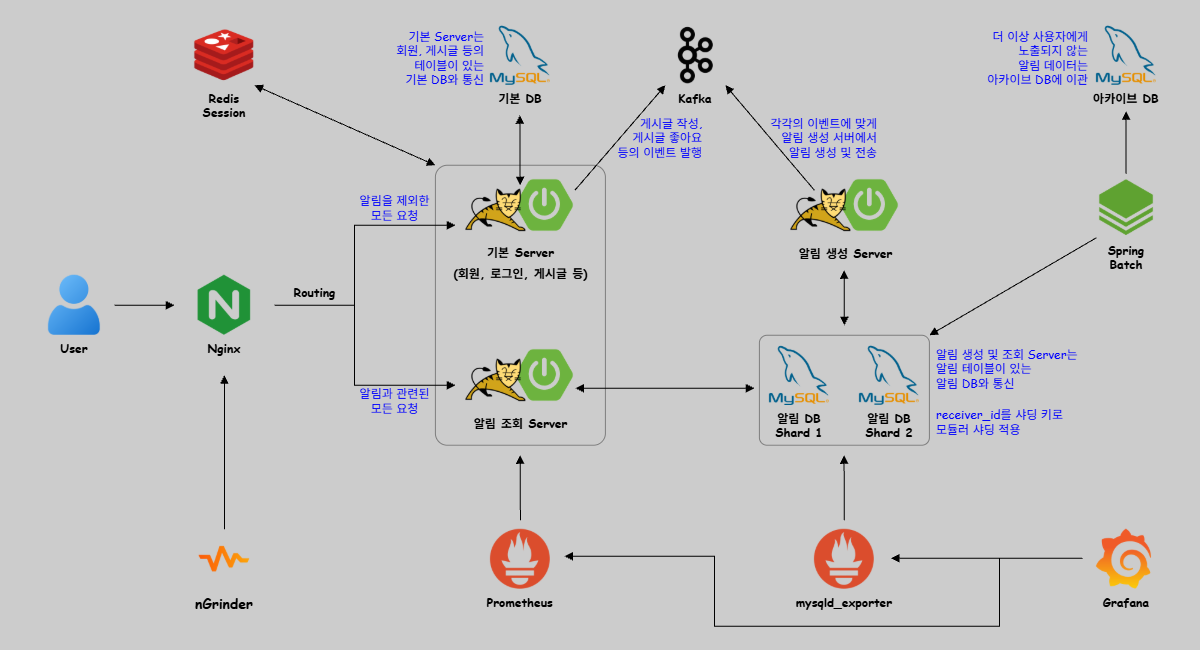
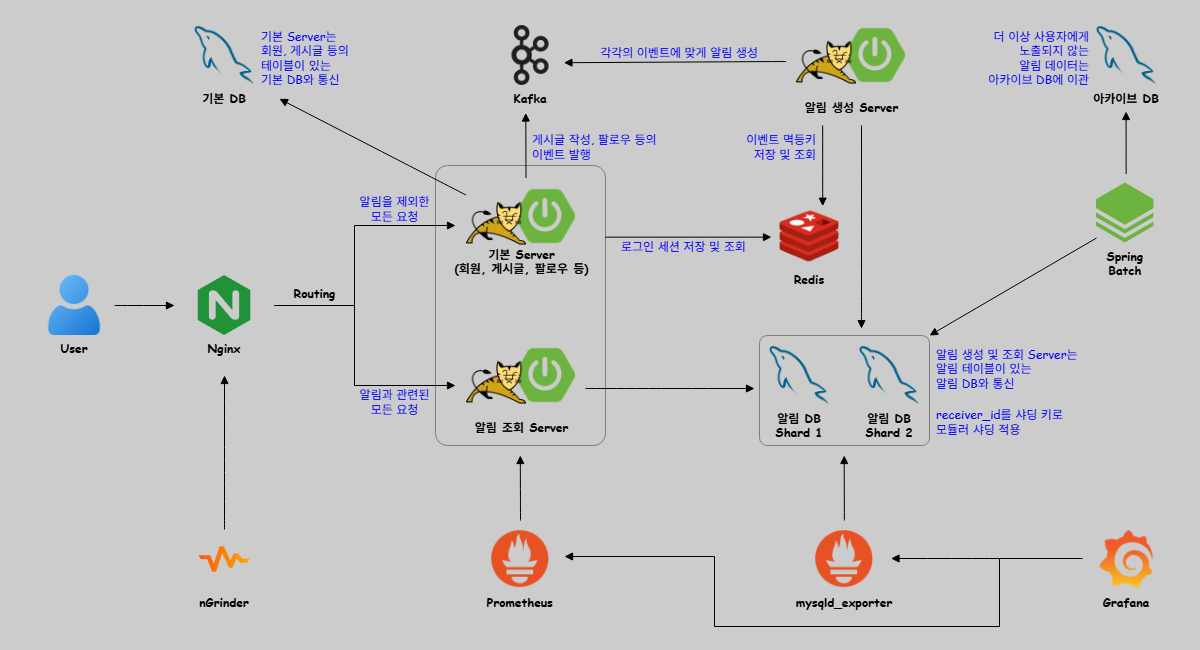
[docs] 멀티 모듈 구조 설명 추가, 아키텍처 그림 수정

diff --git a/README.md b/README.md
@@ -7,24 +7,50 @@ docker compose up --build
 docker compose -f docker-compose.yaml -f docker-compose-monitoring.yaml up --build
 ```
 
-
-<br>
+<br><br>
 
 ## 1. 소개
+
+---
 **CelFeed**(Celeb + Feed)는 셀럽 전용 SNS를 가정해 개발한 백엔드 API 프로젝트입니다.
 
-셀럽이 게시글을 작성하면 팬들에게 알림이 전송되고, 팬이 게시글에 좋아요를 누르면 셀럽에게 알림이 전달됩니다.
+셀럽이 게시글을 작성하면 팬들에게 알림이 전송되고, 팬이 팔로우하거나 게시글에 좋아요를 누르면 셀럽에게 알림이 전송됩니다.
+
 이처럼 알림 이벤트를 중심으로 알림 기능 구현에 중점을 두었습니다.
 
 <br>
 
-## 2. 사용 기술 & 아키텍처
-<img width="600" height="325" alt="skills" src="docs/img/skills.png" /> 사용 기술
+**사용 기술** : `Java 21` / `Spring Boot 4.0.1` / `MySQL 8.4` / `Gradle 9.2.1`
+
+<img width="600" height="325" alt="skills" src="docs/img/skills.png" />
+
 <br><br>
 
-<img width="600" height="350" alt="architecture" src="docs/img/architecture.png" /> 아키텍처
+## 2. 아키텍처
+
+---
+**멀티 모듈**
+
+| 모듈명 | 설명 | 상세 설명 |
+| --- | :--- | :--- |
+| `server-social`| 기본 API 서버 (Producer) | 기본(회원, 게시글, 팔로우 등) SNS 기능 / 이벤트 발행 / `port:8080`|
+| `server-notification` | 알림 조회 API 서버 | 알림 조회 전용 / 생성 서버와 분리해서 부하 및 장애 차단 / `port:8081`|
+| `server-consumer`| 알림 생성 서버 (Consumer) | `server-social`에서 발행한 이벤트(게시글 작성, 팔로우 등)를 받아 알림 생성 |
+| `server-batch`| 배치 서버 | 사용자에게 노출되지 않는 알림 데이터 아카이브 DB에 이관 |
+| `common-web` | 웹 계층 공통 처리 | 인터셉터 기반 로그인 체크, 전역 예외 처리, 공통 응답 포맷|
+| `common-event` | 이벤트 메시지 공통 정의 | 서버끼리 `Kafka`로 주고받는 이벤트 메시지와 토픽 정의|
+| `domain-social` | 기본 도메인 | 기본(회원, 게시글, 좋아요 등) DB의 엔티티와 리포지토리 정의 |
+| `domain-notification` | 알림 도메인 | 알림 DB의 엔티티와 리포지토리 정의|
+| `infra-sharding`| DB 샤딩 설정 | 샤딩 처리된 알림 DB를 위한 샤딩 관련 코드 |
+
+<br>
+
+**전체 구조**
+
+<img width="800" height="434" alt="architecture" src="docs/img/architecture.png" />
+
 - 사용자의 요청은 Nginx에서 경로에 따라 **기본 서버** 또는 **알림 조회 서버**로 라우팅됩니다.
-- **알림 생성 서버**는 외부에 노출되지 않고, 기본 서버(Producer)에서 발생한 이벤트가 Kafka로 전달되면 알림 생성 서버(Consumer)가 이벤트를 처리합니다.
+- **알림 생성 서버**는 외부에 노출되지 않고, 기본 서버(Producer)에서 발행한 이벤트가 Kafka로 전달되면 알림 생성 서버(Consumer)가 이벤트를 처리합니다.
 - **기본 DB**에는 회원, 게시글 등의 테이블이 존재하며, **알림 DB**에는 샤딩을 적용했습니다.
 
 <br>
